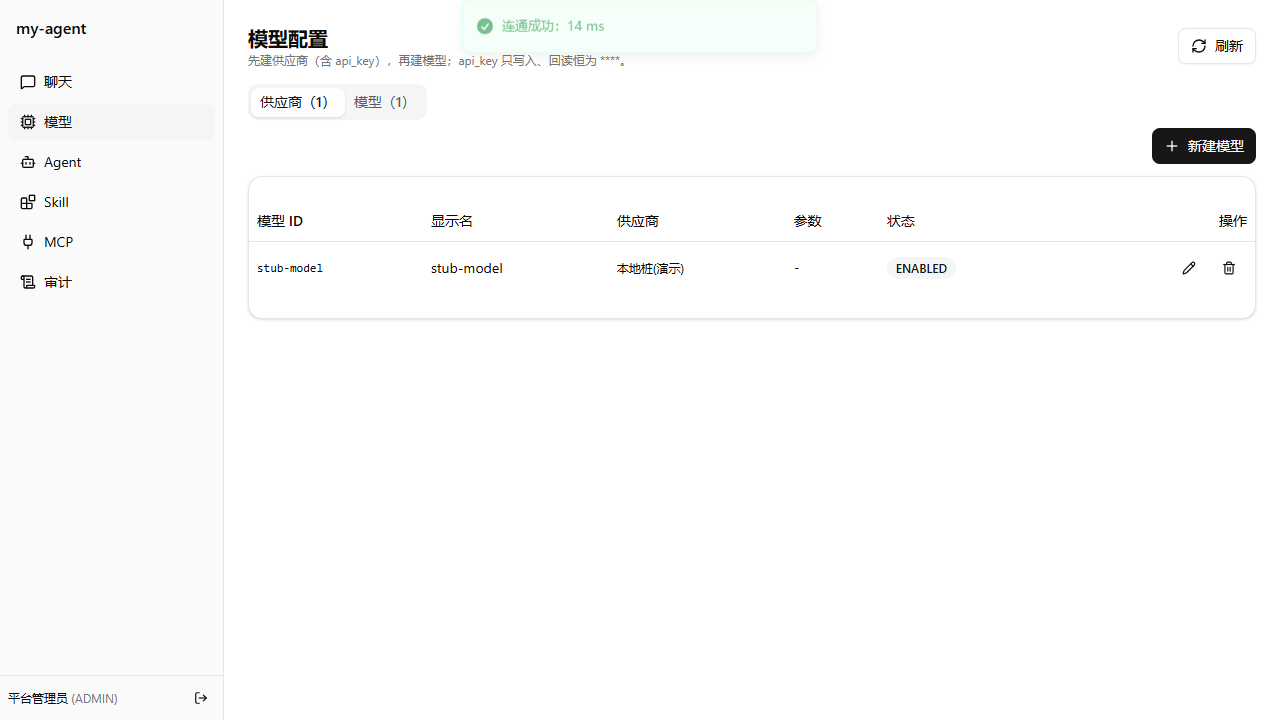
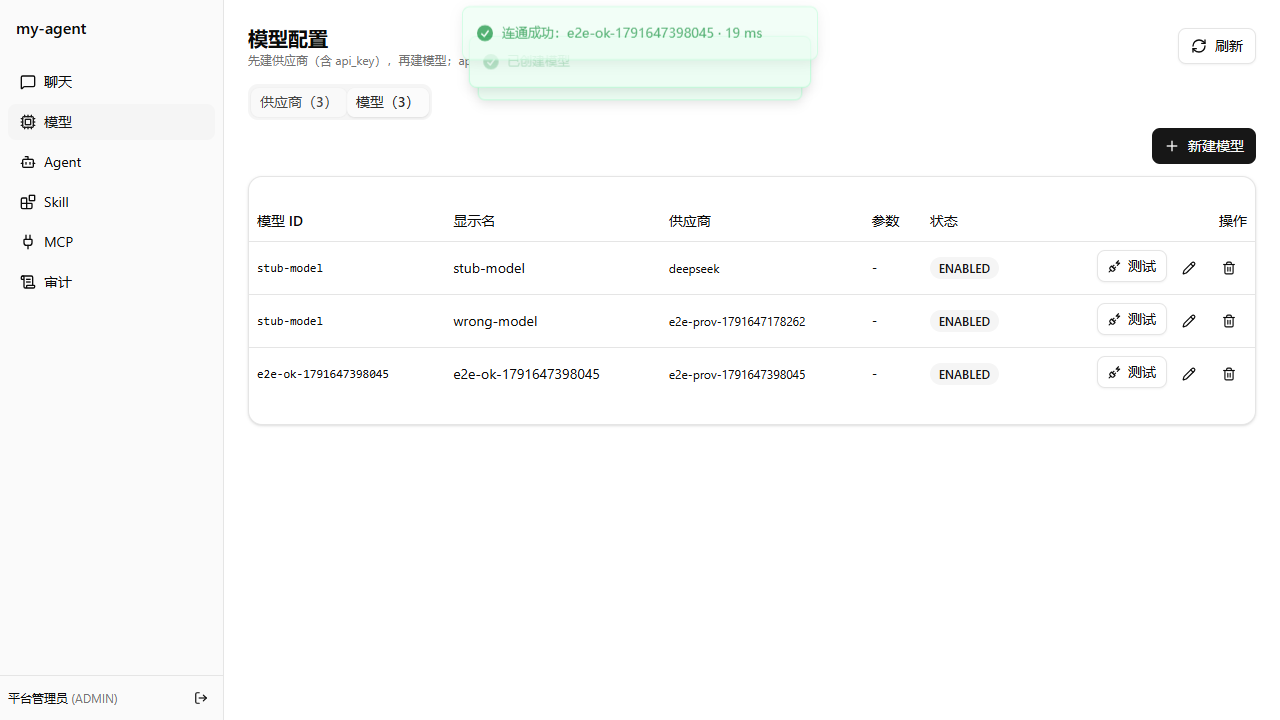
fix(P9-repair): 模型页支持按模型测试 + 错误可操作提示（用户实测 404 场景）
用户实测反馈：改了供应商的 baseUrl/key 后点「连通测试」仍报
  404 'magpie knows no model "stub-model"'
根因：供应商行的测试按钮**静默使用该供应商下第一个模型**，而那条模型记录
仍是早期桩留下的 stub-model（用户改了供应商但没改模型 ID）。

两处产品缺陷已修：
1. 模型 Tab 新增每行「测试」按钮，可针对**指定模型**测试（后端本已支持 ?modelId=）；
   供应商行的按钮也加了 title 说明会用哪个模型。
2. 失败提示从「只弹原始错误」改为带上可操作提示：404/not_found -> 模型 ID 可能不被支持
   （并保留网关返回的可用模型列表）；401 -> key 可能无效；超时/refused -> 端点不可达。
   toast 时长 30s，长错误信息看得完。

同时修了 E2E 的**测试设计缺陷**（本身也是重要教训）：
- 原用例硬断言「本地桩(演示)」这个供应商名 -> 用户改名后测试就红了；
- 原用例用 /stub-model/ 定位行 -> 命中用户的同名模型行。
现改为：自给自足造 e2e- 前缀的唯一 fixture + afterEach 通过 API 清理，
不再依赖、也不再污染用户数据。5 passed。
- 桩增强：STUB_MODEL_404（子串匹配）模拟网关「没有这个模型」的 404，便于复现与回归。
- 证据：docs/acceptance/task-repair-model-id-hint.png

diff --git a/frontend/src/pages/admin/models/ModelsPage.tsx b/frontend/src/pages/admin/models/ModelsPage.tsx
@@ -86,6 +86,30 @@ export default function ModelsPage() {
   const [modelForm, setModelForm] = useState<ModelForm>(EMPTY_MODEL);
   const [testingId, setTestingId] = useState<number | null>(null);
 
+  /** 把探针失败原因转成可操作的信息（400/404/401/超时分开给提示）。 */
+  function describeFailure(result: { error: string | null }, modelLabel: string) {
+    const raw = result.error ?? "未知原因";
+    const lower = raw.toLowerCase();
+    const hints: string[] = [];
+    if (lower.includes("no model") || lower.includes("not_found") || lower.includes("404")) {
+      hints.push(
+        `模型 ID「${modelLabel}」可能不被该端点支持；错误信息里通常列出了可用模型，请对照修改。`,
+      );
+    }
+    if (lower.includes("401") || lower.includes("invalid_api_key") || lower.includes("unauthorized")) {
+      hints.push("API Key 可能无效，或没有访问该模型的权限。");
+    }
+    if (
+      lower.includes("timeout") ||
+      lower.includes("closedchannel") ||
+      lower.includes("refused") ||
+      lower.includes("connect")
+    ) {
+      hints.push("端点不可达：检查 baseUrl 是否正确、网络是否通。");
+    }
+    return { raw, hint: hints.join(" ") };
+  }
+
   const refresh = useCallback(async () => {
     setLoading(true);
     try {
@@ -166,17 +190,24 @@ export default function ModelsPage() {
     }
   }
 
-  async function runTest(provider: Provider) {
-    setTestingId(provider.id);
+  async function runTest(provider: Provider, model?: ModelInfo) {
+    const fallback = models.find((m) => m.providerId === provider.id);
+    const target = model ?? fallback;
+    const label = target?.modelId ?? "（该供应商下没有模型）";
+    setTestingId(target ? target.id : -provider.id);
     try {
-      const result = await testProvider(provider.id);
+      const result = await testProvider(provider.id, target?.id);
       if (result.ok) {
-        toast.success(`连通成功：${result.latencyMs} ms`);
+        toast.success(`连通成功：${label} · ${result.latencyMs} ms`);
       } else {
-        toast.error(`连通失败：${result.error ?? "未知原因"}`);
+        const { raw, hint } = describeFailure(result, label);
+        toast.error(`连通失败（${label}）`, {
+          description: hint ? `${raw}\n\n💡 ${hint}` : raw,
+          duration: 30000,
+        });
       }
     } catch (err) {
-      toast.error(err instanceof Error ? err.message : "测试失败");
+      toast.error(err instanceof Error ? err.message : "测试失败", { duration: 30000 });
     } finally {
       setTestingId(null);
     }
@@ -247,11 +278,16 @@ export default function ModelsPage() {
                           <Button
                             size="sm"
                             variant="outline"
-                            disabled={testingId === p.id}
+                            disabled={testingId != null}
+                            title={
+                              models.find((m) => m.providerId === p.id)
+                                ? `测试该供应商下第一个模型：${models.find((m) => m.providerId === p.id)?.modelId}`
+                                : "该供应商下还没有模型"
+                            }
                             onClick={() => void runTest(p)}
                           >
                             <PlugZap className="size-3.5" />
-                            {testingId === p.id ? "测试中…" : "连通测试"}
+                            {testingId != null && testingId === -p.id ? "测试中…" : "连通测试"}
                           </Button>
                           <Button
                             size="icon"
@@ -349,6 +385,19 @@ export default function ModelsPage() {
                       </TableCell>
                       <TableCell className="text-right">
                         <div className="flex justify-end gap-1">
+                          <Button
+                            size="sm"
+                            variant="outline"
+                            disabled={testingId != null}
+                            onClick={() => {
+                              const provider = providers.find((p) => p.id === m.providerId);
+                              if (provider) void runTest(provider, m);
+                            }}
+                            title="用这个模型做连通测试"
+                          >
+                            <PlugZap className="size-3.5" />
+                            {testingId === m.id ? "测试中…" : "测试"}
+                          </Button>
                           <Button
                             size="icon"
                             variant="ghost"

diff --git a/tools/llm-stub/stub.py b/tools/llm-stub/stub.py
@@ -31,6 +31,10 @@ STUB_DUMP = os.environ.get("STUB_DUMP", "")
 # 触发时会在 stdout 打印命中的完整工具名（含命名空间），便于验收取证。
 STUB_TOOL_NAME = os.environ.get("STUB_TOOL_NAME", "")
 STUB_TOOL_ARGS = os.environ.get("STUB_TOOL_ARGS", "{}")
+# 可选：模拟网关“没有这个模型”的 404（用于验证前端错误提示）。
+# 当请求的 model **包含** STUB_MODEL_404 子串时，返回 404 + 类似网关的错误体（便于用唯一名字测试）。
+STUB_MODEL_404 = os.environ.get("STUB_MODEL_404", "")
+STUB_MODEL_404_HINT = os.environ.get("STUB_MODEL_404_HINT", "deepseek/deepseek-flash, tencent/GLM-5.2")
 
 
 class Handler(BaseHTTPRequestHandler):
@@ -77,6 +81,14 @@ class Handler(BaseHTTPRequestHandler):
             return
 
         model = body.get("model", "stub-model")
+        if STUB_MODEL_404 and STUB_MODEL_404 in model:
+            self._json(404, {"error": {
+                "code": None,
+                "message": f'magpie knows no model "{model}"; it has {STUB_MODEL_404_HINT}',
+                "param": None,
+                "type": "not_found_error",
+            }})
+            return
         created = int(time.time())
         usage = {"prompt_tokens": 11, "completion_tokens": 5, "total_tokens": 16}
         tool_call = self._tool_call_to_emit(body)
